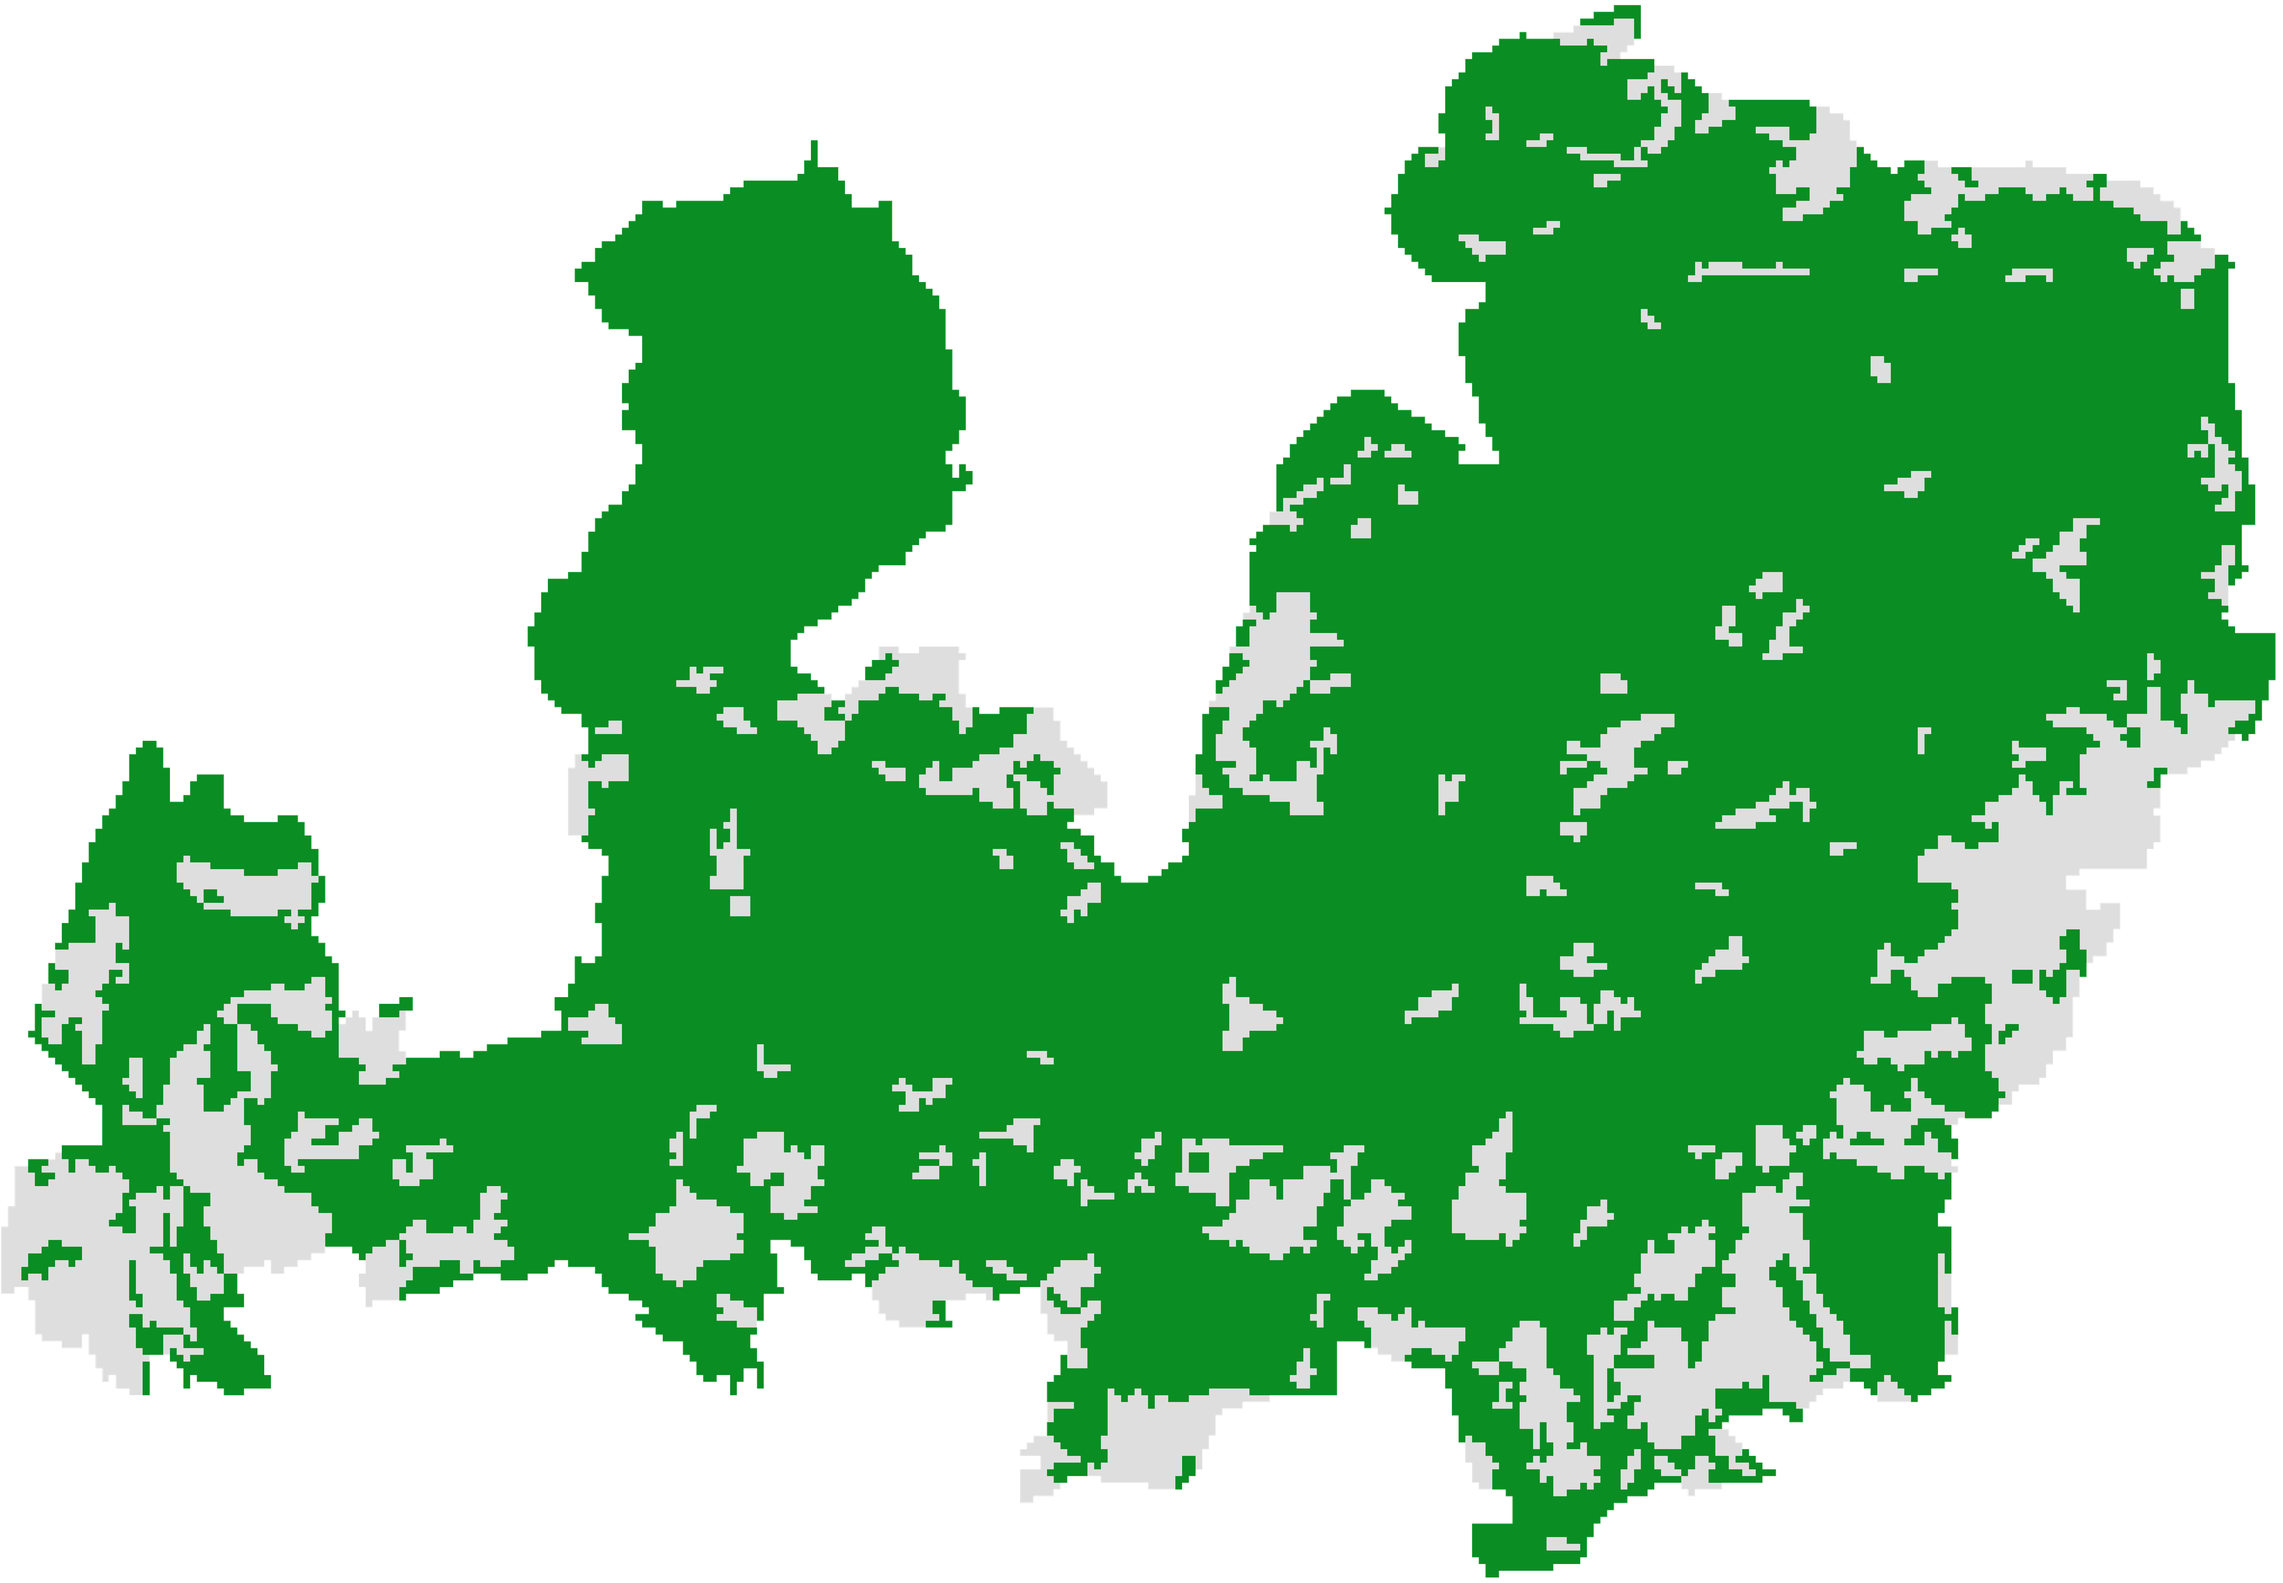
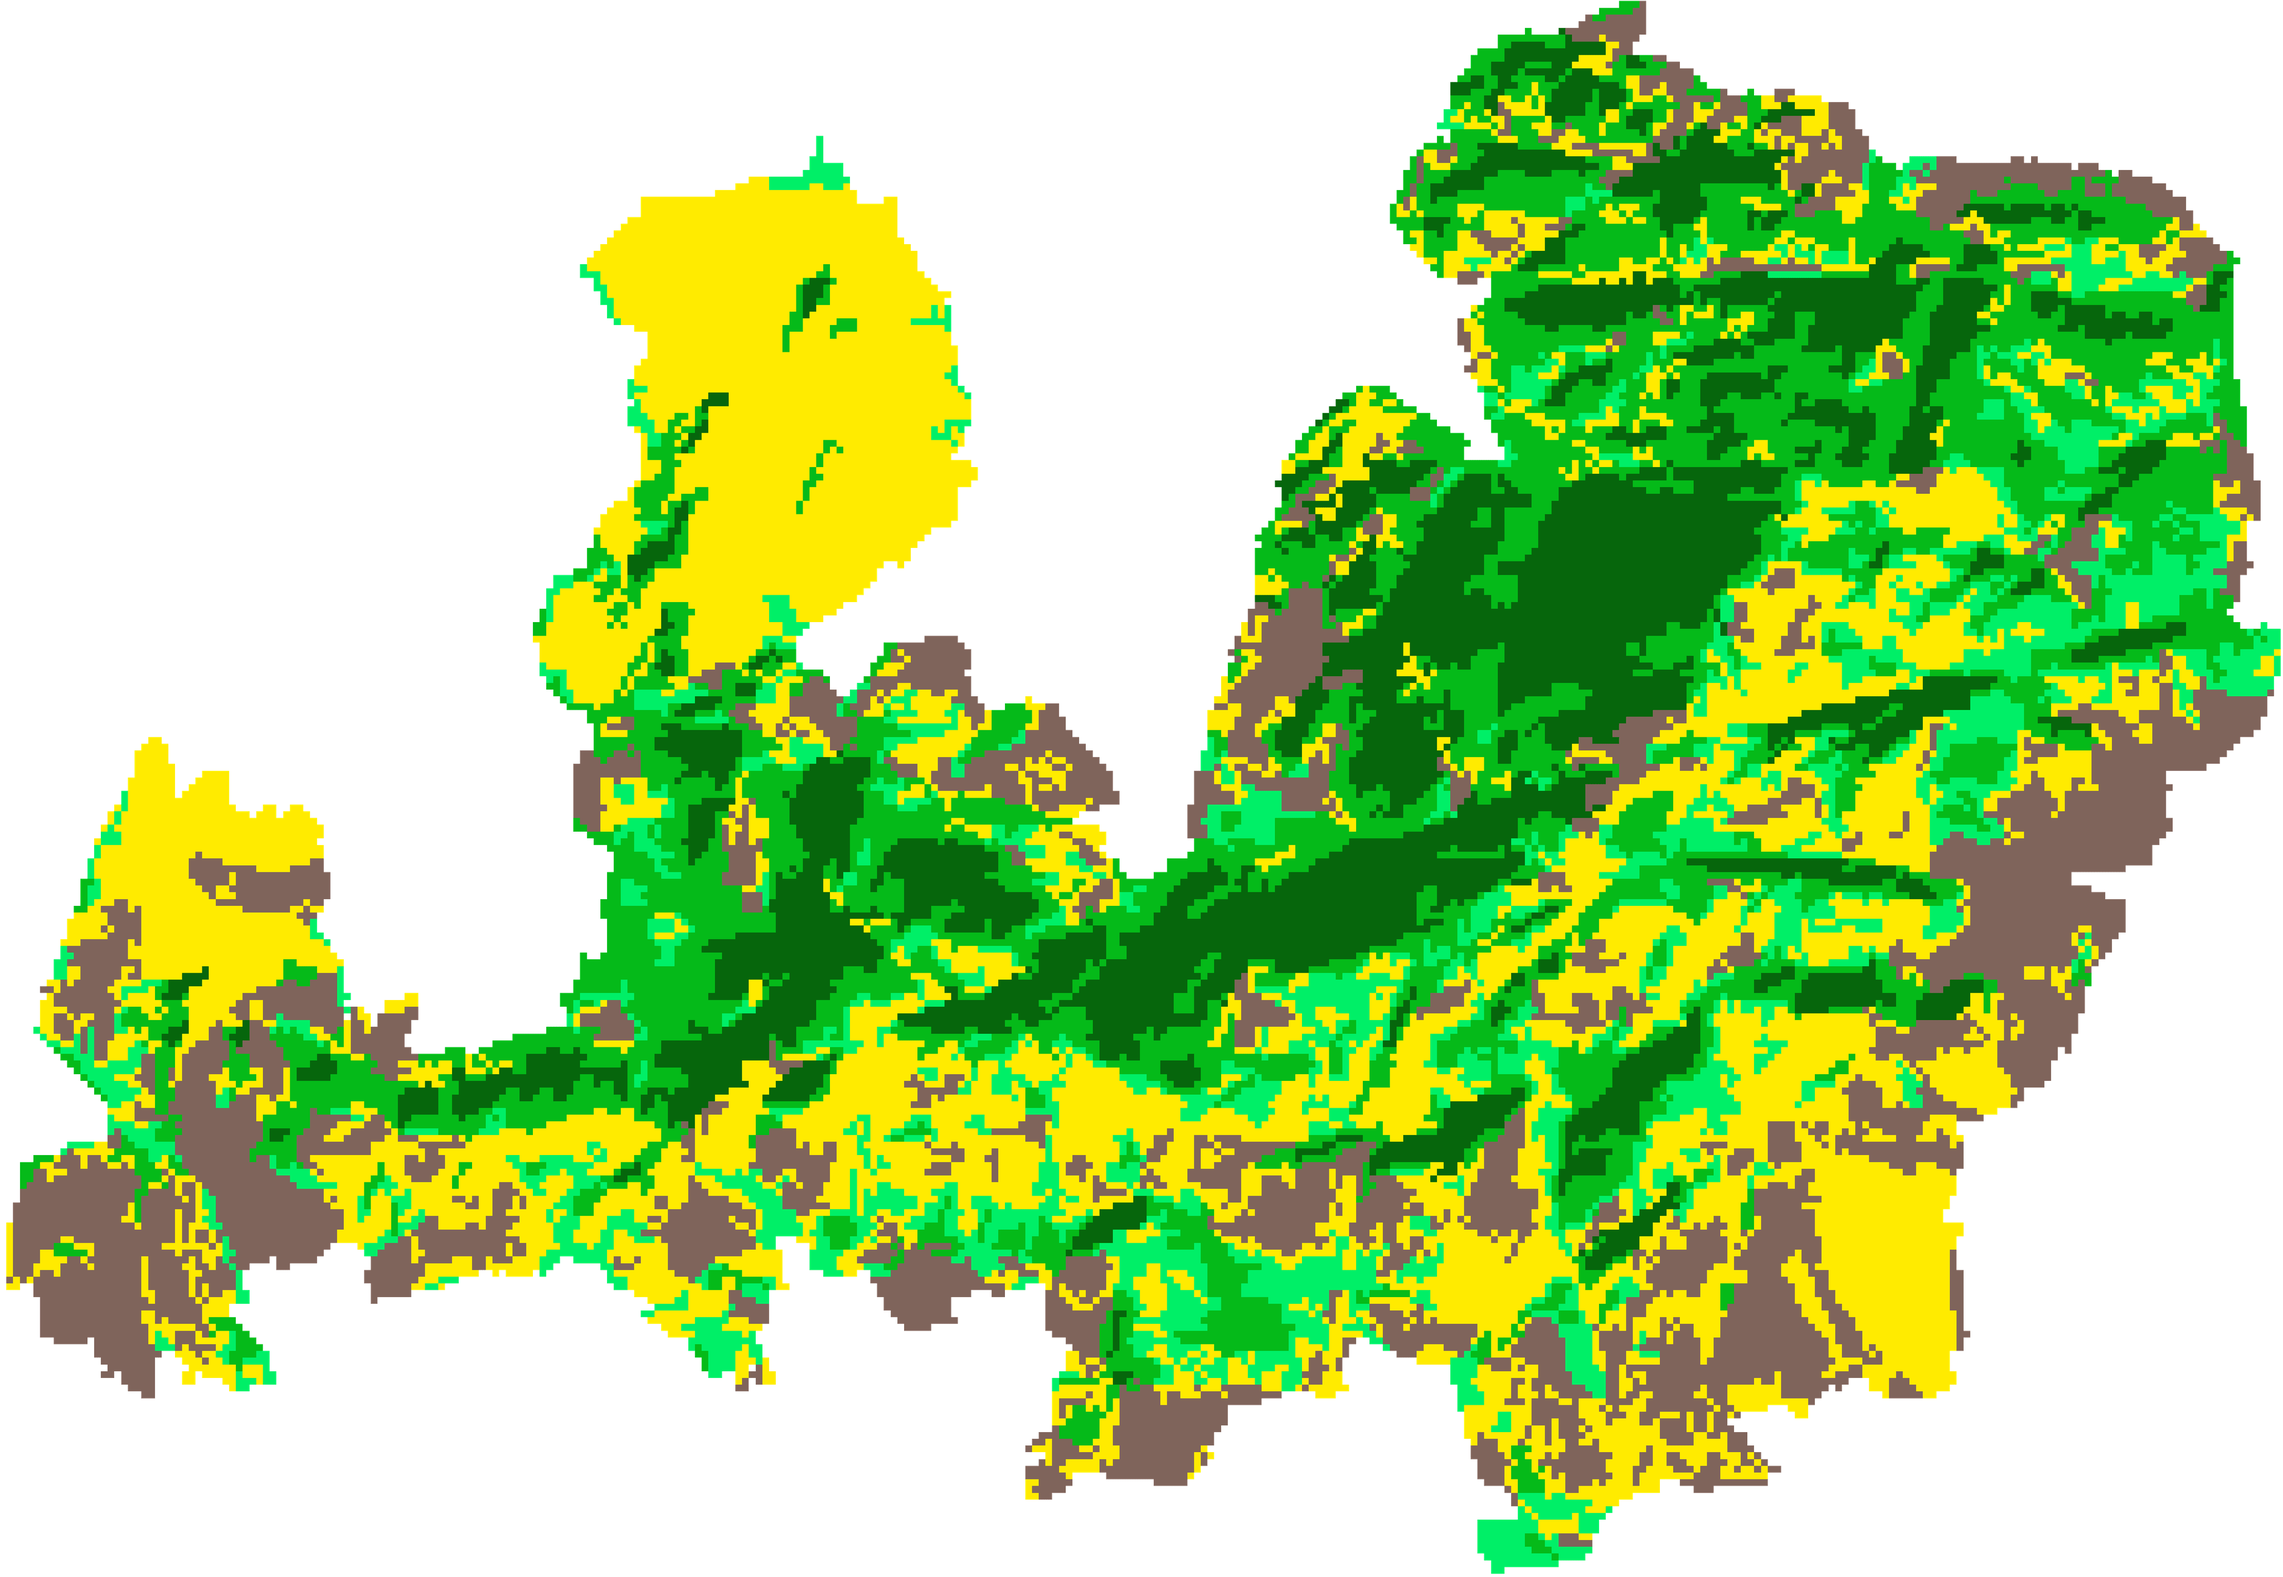
Split Forest Cover and Green Cover into distinct raster layers
The client's reference doc routes Forest Cover to the shared colour doc,
whose "DENSITY classes" section (Very Dense / Moderately Dense / Open
Forest / Scrub / Non-Forest) is its legend; Green Cover has its own
2-class binary doc. The delivered imagery confirms it - Forest Cover
PNGs use the 5 density colours, Green Cover PNGs only the 2 binary ones.

Previously both were collapsed into one "Forest Cover / Green Cover"
entry serving the Green Cover imagery, so the density classification
was absent from the app entirely.

- forest-cover: 6 years (no 2026), 5-class density legend
- green-cover: new entry, 7 years, 2-class binary legend
- forest-density: removed (the client doc has no such row; the DENSITY
  palette belongs to Forest Cover)

Forest Cover has no documented extent anywhere; it reuses the LULC /
Green Cover per-year extents, which are byte-identical to each other.
Marked as inferred in the registry.

diff --git a/lib/gis-registry.ts b/lib/gis-registry.ts
@@ -63,13 +63,19 @@ export interface LayerRegistryEntry {
 
 const REGISTRY_DEFINITIONS: Omit<LayerRegistryEntry, "numericId">[] = [
   // --- Obj 1: Forest / vegetation cover -----------------------------------
-  // Backed by the delivered "Green Cover" raster set — the separate "Forest
-  // Cover" folder in the raw data has no extent or color documentation
-  // anywhere (every other theme has both), so it's treated as superseded
-  // rather than guessed at.
+  // Forest Cover is the 5-class density classification (Very Dense /
+  // Moderately Dense / Open Forest / Scrub / Non-Forest) — the client's
+  // colour doc calls that section "DENSITY classes", and the imagery's own
+  // palette matches it exactly. Distinct from Green Cover below, which is the
+  // 2-class binary; the two share one source folder but are different themes.
+  //
+  // NOTE: no extent is documented for Forest Cover anywhere. These are the
+  // LULC / Green Cover per-year extents, which are byte-identical to each
+  // other and derived from the same source imagery — inferred, not supplied.
+  // Replace if the client provides a Forest Cover extent doc.
   {
     id: "forest-cover",
-    name: "Forest Cover / Green Cover",
+    name: "Forest Cover",
     group: "Obj 1 — Forest Cover",
     kind: "raster",
     status: "available",
@@ -80,16 +86,24 @@ const REGISTRY_DEFINITIONS: Omit<LayerRegistryEntry, "numericId">[] = [
       2008: { path: "gis/raster/forest-cover/2008.png", extent: { west: 71.727566, south: 21.452156, east: 71.82277, north: 21.511847 } },
       2018: { path: "gis/raster/forest-cover/2018.png", extent: { west: 71.727566, south: 21.452156, east: 71.82277, north: 21.511847 } },
       2025: { path: "gis/raster/forest-cover/2025.png", extent: { west: 71.728275, south: 21.452979, east: 71.822287, north: 21.511565 } },
-      2026: { path: "gis/raster/forest-cover/2026.png", extent: { west: 71.727566, south: 21.452156, east: 71.82277, north: 21.511847 } },
     },
     visibility: "public",
   },
   {
-    id: "forest-density",
-    name: "Forest Density",
+    id: "green-cover",
+    name: "Green Cover",
     group: "Obj 1 — Forest Cover",
     kind: "raster",
-    status: "pending",
+    status: "available",
+    rasterYears: {
+      1980: { path: "gis/raster/green-cover/1980.png", extent: { west: 71.72702, south: 21.452038, east: 71.82322, north: 21.512114 } },
+      1989: { path: "gis/raster/green-cover/1989.png", extent: { west: 71.727566, south: 21.452156, east: 71.82277, north: 21.511847 } },
+      1998: { path: "gis/raster/green-cover/1998.png", extent: { west: 71.727566, south: 21.452156, east: 71.82277, north: 21.511847 } },
+      2008: { path: "gis/raster/green-cover/2008.png", extent: { west: 71.727566, south: 21.452156, east: 71.82277, north: 21.511847 } },
+      2018: { path: "gis/raster/green-cover/2018.png", extent: { west: 71.727566, south: 21.452156, east: 71.82277, north: 21.511847 } },
+      2025: { path: "gis/raster/green-cover/2025.png", extent: { west: 71.728275, south: 21.452979, east: 71.822287, north: 21.511565 } },
+      2026: { path: "gis/raster/green-cover/2026.png", extent: { west: 71.727566, south: 21.452156, east: 71.82277, north: 21.511847 } },
+    },
     visibility: "public",
   },
   {

diff --git a/lib/legend-config.ts b/lib/legend-config.ts
@@ -42,8 +42,21 @@ function provisionalLegend(layerId: string, classCount = 5): RasterLegend {
 // same five used across both a standalone density theme (not delivered) and
 // Vegetation Change's 25-way transition matrix below.
 const REAL_LEGENDS: Record<string, RasterLegend> = {
+  // The client's colour doc labels this section "DENSITY classes" — it is the
+  // Forest Cover theme's legend (the imagery's own palette matches it exactly).
   "forest-cover": {
     layerId: "forest-cover",
+    classes: [
+      { value: 1, label: "Very Dense Forest", color: "#06660c" },
+      { value: 2, label: "Moderately Dense Forest", color: "#05ba19" },
+      { value: 3, label: "Open Forest", color: "#00ef67" },
+      { value: 4, label: "Scrub", color: "#ffeb00" },
+      { value: 5, label: "Non Forest", color: "#7f645b" },
+    ],
+    note: "The 1980 image is off-palette vs the other years in the delivered data — its colours won't match these swatches exactly.",
+  },
+  "green-cover": {
+    layerId: "green-cover",
     classes: [
       { value: 1, label: "Non-Forest", color: "#dedede" },
       { value: 2, label: "Forest", color: "#0a8d23" },
@@ -142,7 +155,6 @@ const REAL_LEGENDS: Record<string, RasterLegend> = {
 // were only given as named external palette references ("cpt-city
 // DEM_screen", "cpt-city wiki-knutux") rather than literal hex stops.
 const PROVISIONAL_IDS = [
-  "forest-density",
   "forest-type",
   "ecological-degradation",
   "tof",
